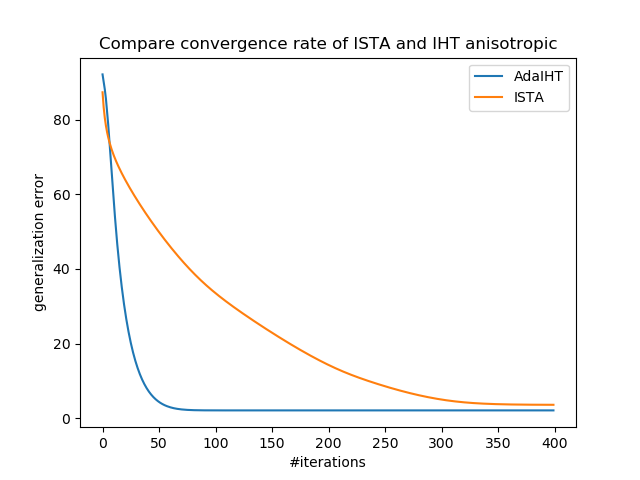
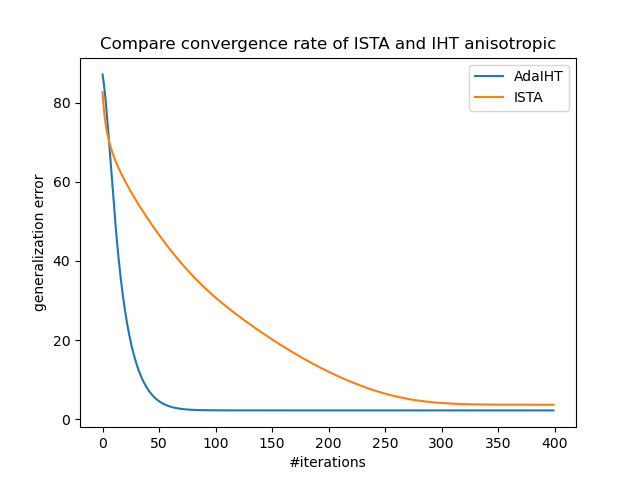
run 200 experiments in ISTA IHT simulation

diff --git a/utils/constants.py b/utils/constants.py
@@ -15,9 +15,9 @@ import numpy as np
 ISOTROPIC_NAME = "isotropic"
 ANISOTROPIC_NAME = "anisotropic"
 
-STEPS = 20  # number of experiments
+STEPS = 200  # number of experiments
 N_ITERATION = 400  # number of iterations in ISTA or Hard Threshold
-GD_STEPS = 10  # number of experiments in compare_gradient_descent
+GD_STEPS = 20  # number of experiments in compare_gradient_descent
 GD_NUM_ITERATION = 400  # number of iterations in ISTA or Hard Threshold
 FAST_NEWTON_NUM_GD = 10  # number of gradient descent steps in fast newton
 N, P, S = 200, 1000, 10
